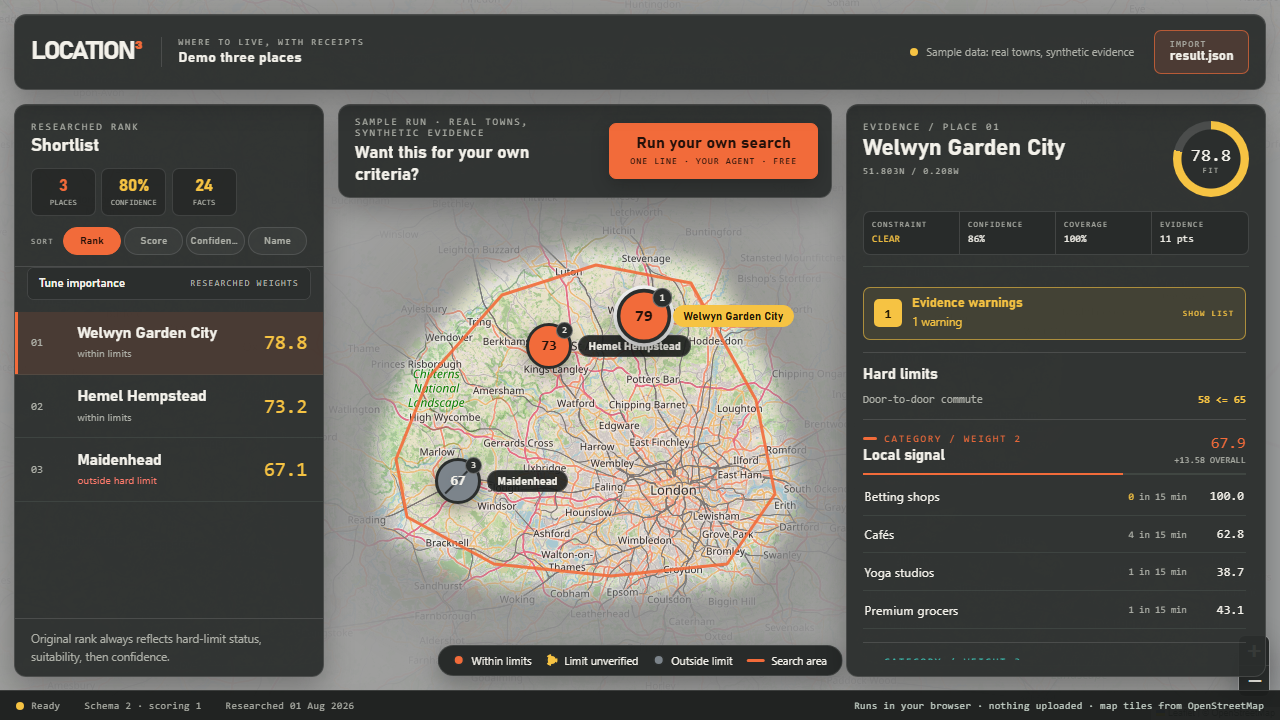
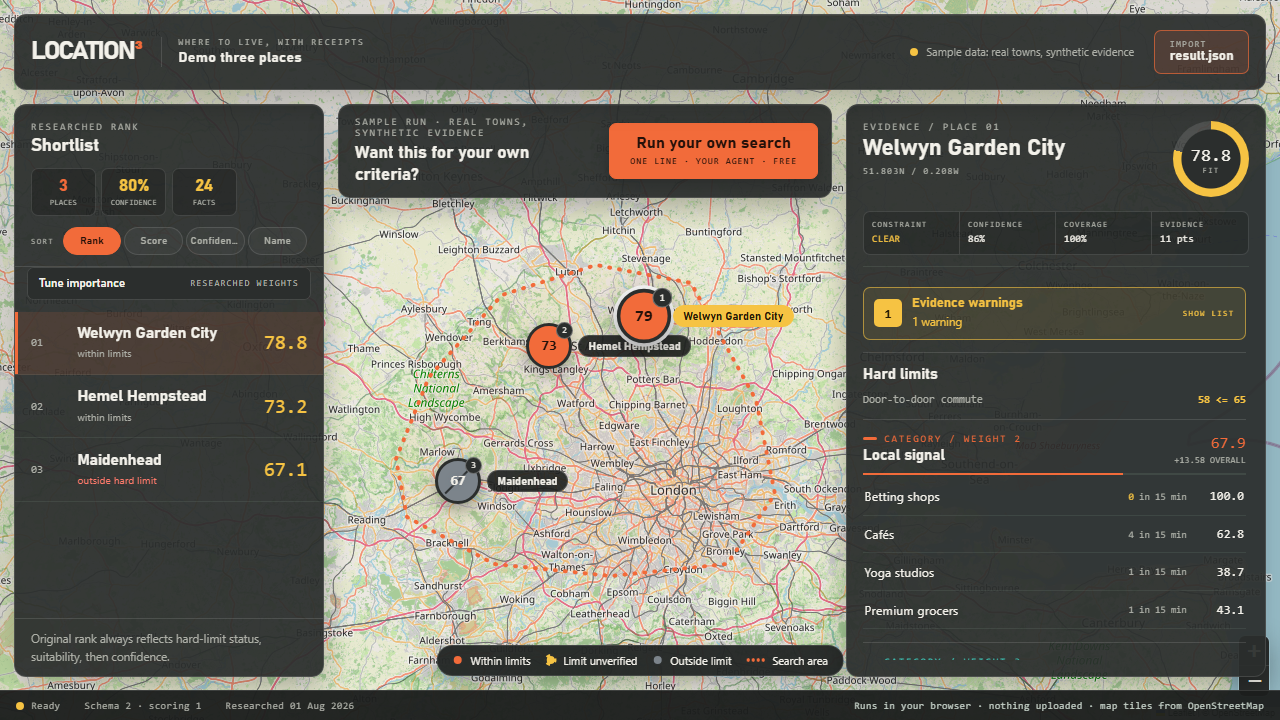
Return the map to plain colour with a dotted boundary
The focus mask, its SVG filters, and the blend modes are gone: every
attempt to make the outside look different broke on some device. One
OpenStreetMap basemap everywhere, a dotted orange boundary, a barely-
there edge vignette, and the pins do the pointing. Legend swatch and
README screenshots follow.

Changed region(s): [[0.0, 0.0, 1.0, 0.9778]]

diff --git a/app/src/components/MapView.tsx b/app/src/components/MapView.tsx
@@ -4,18 +4,14 @@ import L from "leaflet";
 import { GeoJSON, MapContainer, Marker, TileLayer, ZoomControl, useMap, useMapEvents } from "react-leaflet";
 import "leaflet/dist/leaflet.css";
 
-import { focusMask } from "../lib/focusMask";
 import { pinSizeForZoom } from "../lib/pins";
 import type { CandidateResult, ConstraintStatus, RouteBoundary } from "../types";
 
-// Outside the boundary the map is desaturated rather than darkened, so it stays bright. Two grey layers
-// feathered by different amounts (see FocusFilters) blend with the tiles' saturation; a faint white fog
-// on the far layer lifts the outside a touch more.
-const FOCUS_LAYERS: ReadonlyArray<{ layer: string; fillColor: string; fillOpacity: number }> = [
-  { layer: "near", fillColor: "#8a8a8a", fillOpacity: 0.85 },
-  { layer: "far", fillColor: "#8a8a8a", fillOpacity: 0.75 },
-  { layer: "fog far", fillColor: "#ffffff", fillOpacity: 0.16 },
-];
+// The search boundary is the one vector besides the pins: a dotted orange line with a whisper of fill.
+const BOUNDARY_STYLE = {
+  color: "#f26b3a", weight: 4, opacity: 1, dashArray: "1 9", lineCap: "round" as const,
+  fillColor: "#f26b3a", fillOpacity: 0.04, className: "search-boundary",
+};
 
 const MARKER_STATE: Record<ConstraintStatus, string> = { pass: "valid", unknown: "unverified", fail: "excluded" };
 const MARKER_TEXT: Record<ConstraintStatus, string> = {
@@ -51,20 +47,12 @@ export function MapView({ candidates, fieldKey, routeBoundary, selectedId, onSel
           url="https://{s}.tile.openstreetmap.org/{z}/{x}/{y}.png"
         />
         <ZoomControl position="bottomright" />
-        {routeBoundary && FOCUS_LAYERS.map(({ layer, fillColor, fillOpacity }) => (
-          <GeoJSON
-            key={`mask:${layer}:${routeBoundary.retrieved_at}`}
-            data={focusMask(routeBoundary.geometry)}
-            interactive={false}
-            style={{ stroke: false, fillColor, fillOpacity, fillRule: "evenodd", className: `focus-mask ${layer}` }}
-          />
-        ))}
         {routeBoundary && (
           <GeoJSON
             key={routeBoundary.retrieved_at}
             data={routeBoundary.geometry}
             interactive={false}
-            style={{ color: "#f26b3a", weight: 3, opacity: 0.9, fillColor: "#f26b3a", fillOpacity: 0.05, className: "search-boundary" }}
+            style={BOUNDARY_STYLE}
           />
         )}
         <FieldController
@@ -89,7 +77,6 @@ export function MapView({ candidates, fieldKey, routeBoundary, selectedId, onSel
           );
         })}
       </MapContainer>
-      <FocusFilters />
       {overlay}
       <ul className="map-legend" aria-label="Map key">
         <li><i className="legend-pin valid" aria-hidden="true" />Within limits</li>
@@ -98,30 +85,6 @@ export function MapView({ candidates, fieldKey, routeBoundary, selectedId, onSel
         <li><i className="legend-line" aria-hidden="true" />Search area</li>
       </ul>
     </section>
-  );
-}
-
-/**
- * The mask is eroded before it is blurred, which pushes the hole outward by the
- * erosion radius, so the dimming starts at the boundary line and fades away from
- * it; nothing inside the search is touched. Radii are in screen pixels and the
- * phone variants are smaller because the boundary is.
- */
-function FocusFilters() {
-  const filters: Array<[string, number, number]> = [
-    ["focus-near", 20, 10], ["focus-far", 70, 35], ["focus-near-phone", 10, 5], ["focus-far-phone", 32, 16],
-  ];
-  return (
-    <svg className="focus-filters" aria-hidden="true" focusable="false" width="0" height="0">
-      <defs>
-        {filters.map(([id, erode, blur]) => (
-          <filter key={id} id={id} x="-5%" y="-5%" width="110%" height="110%" colorInterpolationFilters="sRGB">
-            <feMorphology operator="erode" radius={erode} />
-            <feGaussianBlur stdDeviation={blur} />
-          </filter>
-        ))}
-      </defs>
-    </svg>
   );
 }
 

diff --git a/app/src/styles.css b/app/src/styles.css
@@ -69,16 +69,12 @@ button:focus-visible, summary:focus-visible, a:focus-visible, input:focus-visibl
 }
 
 .map-field, .map-canvas { position: absolute; inset: 0; width: 100%; height: 100%; }
-/* The map is a map: OpenStreetMap in colour, with only a touch of warmth so the pins and panels sit on it. A mask layer dims everything outside the search boundary (see focusMask). */
+/* The map is a map: OpenStreetMap in colour everywhere, with only a touch of warmth so the pins and panels sit on it. Nothing is dimmed or masked; the dotted boundary and the pins do the pointing. */
 .map-field { z-index: 0; background: #ece9df; }
 .map-canvas { background: #ece9df; }
 .leaflet-tile-pane { filter: saturate(1.05) contrast(0.97) brightness(0.985); }
-/* Outside the boundary the map goes soft greyscale, never dark: grey mask layers blend with the tiles' saturation, feathered outward from the line (see FocusFilters), and a faint fog lifts the far layer. Nothing inside the line is touched. */
-.focus-filters { position: absolute; width: 0; height: 0; overflow: hidden; }
-.focus-mask { mix-blend-mode: saturation; }
-.focus-mask.fog { mix-blend-mode: normal; }
-.focus-mask.near { filter: url(#focus-near); }
-.focus-mask.far { filter: url(#focus-far); }
+/* A whisper of a vignette at the very edge of the map display, below the pins and above the tiles, so the map reads as one framed surface. */
+.map-field::after { content: ""; position: absolute; inset: 0; z-index: 500; pointer-events: none; box-shadow: inset 0 0 22px rgba(28, 30, 29, 0.14); }
 .leaflet-control-attribution { color: #4f5a54 !important; background: rgba(255, 255, 255, 0.72) !important; font-size: 9px !important; }
 .leaflet-control-attribution a { color: #24312a !important; }
 .leaflet-bar { overflow: hidden; border: 1px solid var(--line) !important; border-radius: var(--radius-small) !important; box-shadow: var(--shadow) !important; }
@@ -310,8 +306,6 @@ button:focus-visible, summary:focus-visible, a:focus-visible, input:focus-visibl
   .start-columns { grid-template-columns: 1fr; }.start-dialog { padding: .9rem; }.start-choice { grid-template-columns: 1fr; gap: .3rem; }
   .rank-panel { max-height: none; }.rank-list { flex: 0 1 auto; max-height: 18rem; }.tune-panel { overflow: visible; }.dossier { max-height: none; }
   .dossier-scroll { overflow: visible; }
-  /* The boundary is a few hundred pixels wide on a phone, so the feathering scales down with it. */
-  .focus-mask.near { filter: url(#focus-near-phone); }.focus-mask.far { filter: url(#focus-far-phone); }
   .sort-keys { grid-template-columns: auto repeat(4, minmax(0, 1fr)); }.sort-keys-label { display: block; }
   .status-rail { position: relative; gap: .8rem; overflow: hidden; }.status-rail span:nth-child(2), .status-rail span:nth-child(3) { display: none; }.privacy-readout { overflow: hidden; text-overflow: ellipsis; }
 }
@@ -417,7 +411,7 @@ button:focus-visible, summary:focus-visible, a:focus-visible, input:focus-visibl
 .legend-pin { width: 12px; height: 12px; border-radius: 50%; background: var(--primary); border: 2px solid #2b2e2d; }
 .legend-pin.unverified { background: var(--acid); border-style: dashed; }
 .legend-pin.excluded { background: var(--slate); }
-.legend-line { width: 18px; height: 3px; border-radius: 2px; background: var(--primary); }
+.legend-line { width: 20px; height: 4px; background: radial-gradient(circle, var(--primary) 1.6px, transparent 1.9px) 0 0 / 5px 4px repeat-x; }
 .place-card ~ .map-legend { display: none; }
 @media (max-width: 760px) {
   .map-legend { display: none; }

diff --git a/app/e2e/viewer.spec.ts b/app/e2e/viewer.spec.ts
@@ -13,8 +13,10 @@ test("map, ranked list, and dossier stay synchronized", async ({ page }) => {
   await page.getByRole("button", { name: /Hemel Hempstead/ }).click();
   await expect(page.getByRole("heading", { name: "Hemel Hempstead" })).toBeVisible();
   await expect(page.locator(".score-marker.selected b")).toHaveText("73");
-  // The boundary and the three feathered mask layers that fade everything outside it; nothing else is drawn as a vector.
-  await expect(page.locator(".leaflet-overlay-pane path")).toHaveCount(4);
+  // The dotted boundary is the only vector besides the pins; nothing dims the map outside it.
+  await expect(page.locator(".leaflet-overlay-pane path")).toHaveCount(1);
+  await expect(page.locator(".search-boundary")).toHaveAttribute("stroke-dasharray", "1 9");
+  await expect(page.locator(".focus-mask")).toHaveCount(0);
 });
 
 test("route assumptions and contribution points are inspectable", async ({ page }) => {

diff --git a/MUSINGS.md b/MUSINGS.md
@@ -1089,6 +1089,12 @@ After the reskin Luke sent two things: a screenshot of his Aotearoa 2026 trip pl
 - README: the part table, a Photos section, the serve route, and a privacy bullet. Screenshots refreshed.
 - Verified: typecheck and build clean, 89 Vitest tests, 46 Playwright tests with axe clean, screenshots at 1280 and 390.
 
+### P35 and P36 completion note (the map goes back to being a map)
+
+- Luke's phone showed the outside as near-black: the saturation blend mode behind P29 is not honoured by every renderer, and where it is dropped the grey mask layers simply paint grey. P35 tried dimmed Esri satellite imagery outside with the colour tiles clipped to the boundary; built and tested, it looked like a collage and was never committed. Three single-basemap mockups (inverted night map, pale paper map, satellite everywhere) went to Luke as screenshots.
+- Luke's call: the original map, the tiniest vignette around the edges, and a dotted orange line. So the focus mask, its SVG filters, and the blend modes are gone entirely; there is no second tile host. The boundary is a dotted orange line (`dashArray` "1 9", round caps, 4px) with a four-percent fill, and a `box-shadow` inset of 22px at fourteen-percent opacity sits below the pins as the whole vignette.
+- Lesson, kept for next time: every attempt to make the outside look different from the inside made the map worse on some device. One basemap, one line, and the pins pointing is what a map wants.
+
 ### Decisions
 
 - The viewer's network rule is unchanged: map tiles only. Photos are files beside the run, served by the loopback server or bundled with the demo.
@@ -1099,9 +1105,9 @@ After the reskin Luke sent two things: a screenshot of his Aotearoa 2026 trip pl
 
 ### State
 
-- The viewer is bright and warm: a full-colour map that fades to greyscale outside the search area, charcoal cards, orange for actions, yellow for numbers and names, teal for measures, a colour per category, stat tiles, a key, and a name beside every pin.
+- The viewer is bright and warm: a full-colour map with a dotted orange boundary and a barely-there edge vignette, charcoal cards, orange for actions, yellow for numbers and names, teal for measures, a colour per category, stat tiles, a key, and a name beside every pin.
 - Picking a place pops open a card with its photo, author and licence, rank, limit badge, four facts, and a way into the evidence. Photos are cited evidence fetched on the user's machine by an opt-in, previewed, cached command that works for any place the pipeline produces; the demo carries three real ones.
-- Nineteen commits after 0f4bb4d, none pushed. Python: 94 tests, ruff clean. Viewer: 89 Vitest tests, 46 Playwright tests with axe clean, CI grep clean on the build.
+- Twenty commits after 0f4bb4d, none pushed. Python: 94 tests, ruff clean. Viewer: 87 Vitest tests, 46 Playwright tests with axe clean, CI grep clean on the build.
 
 ### Not yet done
 

diff --git a/README.md b/README.md
@@ -69,7 +69,7 @@ and never claims a property exists because an area looks affordable.
 
 | Part | What it tells you |
 | --- | --- |
-| **Map** | The search area in full colour with the rest of the map faded to greyscale, an orange boundary, numbered score pins with the place's name beside each, and a key. OpenStreetMap basemap with visible attribution. |
+| **Map** | A full-colour map with the search area ringed by a dotted orange line, numbered score pins with the place's name beside each, and a key. OpenStreetMap basemap with visible attribution. |
 | **Place card** | Pops open when you pick a pin or a row: the place's photo with its author and licence, rank, limit badge, fit, commute, typical price, the strongest everyday signal, and a way into the evidence. Photos come from the optional photos command below; a bundle without them gets a gradient. |
 | **Shortlist** | Places, drive limit, average confidence, and fact count at a glance; then researched rank, hard-limit status (clear, unverified, or breached), measured share when a weighted category has no evidence, score. Sort by recommendation, suitability, confidence, or name without changing rank numbers. |
 | **Tune importance** | Sliders that preview a what-if order using the scorer's own arithmetic. Bright amber scores and the footer say a preview is active; researched ranks stay put. |
